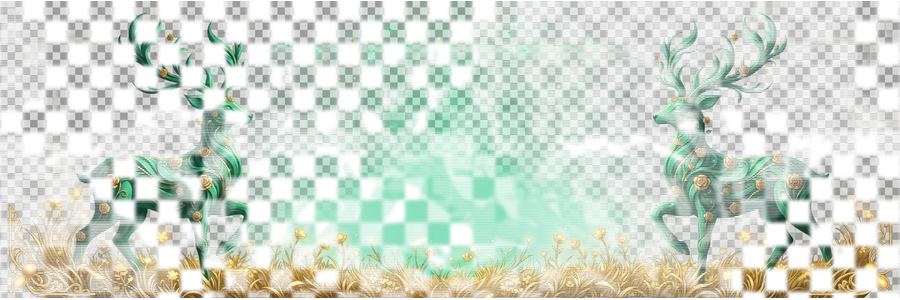
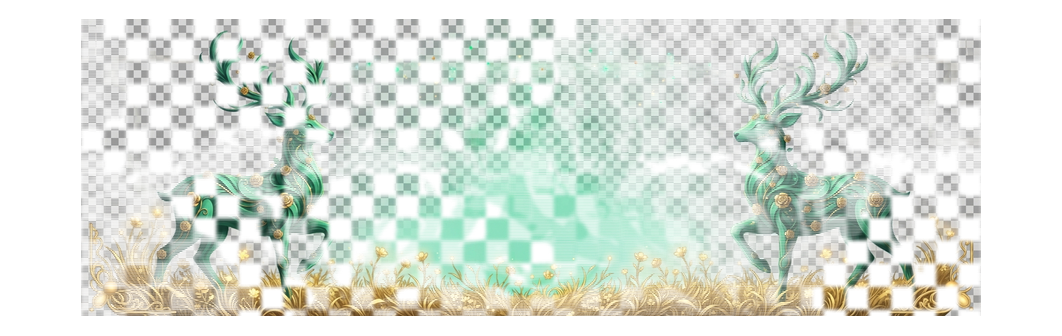
بطاقة العشاق الذهبيون الجديدة: إزالة الخلفية السوداء كلياً مع بقاء الشخصيات الذهبية، وتحديث الكتالوج (v4) وضبط هوامش الغزلان والزمرد
🤖 Generated with Codebuff

diff --git a/_gg/src/lib/admin-db.ts b/_gg/src/lib/admin-db.ts
@@ -3589,8 +3589,10 @@ const DECOR_SEED: Array<{ id: string; kind: DecorKind; nameAr: string; imageUrl:
   { id: '/yalla-games/shifarat.png', kind: 'theme', nameAr: 'الشيفرات', imageUrl: '/yalla-games/shifarat.png', rarity: 'rare', price: 300, isFree: false },
   // البطاقات (فنيات خلفية + بطاقات هوية) — المعرف = اسم الملف كما يُخزن في AppUser.card
   // card_emerald_royal: البطاقة المرجعية للتصميم (عريضة، شفافة، زخرفة الأطراف والمركز مفتوح للأفاتار)
-  // card_royal_deer: بطاقة الغزالين الزمردين (شفتها المستخدم — قواعد نفسها: أطراف مزينة، مركز مفتوح)
+  // card_royal_deer: بطاقة الغزالين الزمردين — هوامش آمنة لمنع الاقتطاع الجانبي
   { id: 'card_royal_deer', kind: 'card', nameAr: 'الغزلان الملكية', imageUrl: '/yalla-ornaments/card_royal_deer.png', rarity: 'legendary', price: 800, isFree: false },
+  // card_golden_love: العشاق الذهبيون (خلفية سوداء أزيلت بالمعالجة)
+  { id: 'card_golden_love', kind: 'card', nameAr: 'العشاق الذهبيون', imageUrl: '/yalla-ornaments/card_golden_love.png', rarity: 'legendary', price: 800, isFree: false },
   { id: 'card_emerald_royal', kind: 'card', nameAr: 'الزمرد الملكي', imageUrl: '/yalla-ornaments/card_emerald_royal.png', rarity: 'legendary', price: 600, isFree: false },
   { id: 'card_astronaut', kind: 'card', nameAr: 'حديقة الفضاء', imageUrl: '/yalla-ornaments/card_astronaut.png', rarity: 'epic', price: 500, isFree: false },
   { id: 'card_glow', kind: 'card', nameAr: 'هالة ضوئية', imageUrl: '/yalla-ornaments/card_glow.png', rarity: 'epic', price: 500, isFree: false },
@@ -3598,7 +3600,7 @@ const DECOR_SEED: Array<{ id: string; kind: DecorKind; nameAr: string; imageUrl:
   { id: 'charge_reward_profile_card', kind: 'card', nameAr: 'بطاقة الشحن', imageUrl: '/yalla-ornaments/charge_reward_profile_card.png', rarity: 'rare', price: 400, isFree: false },
 ];
 
-const DECOR_SEED_VERSION = 3;
+const DECOR_SEED_VERSION = 4;
 
 export async function seedDefaultDecor(): Promise<void> {
   await ensureAdminTables();
